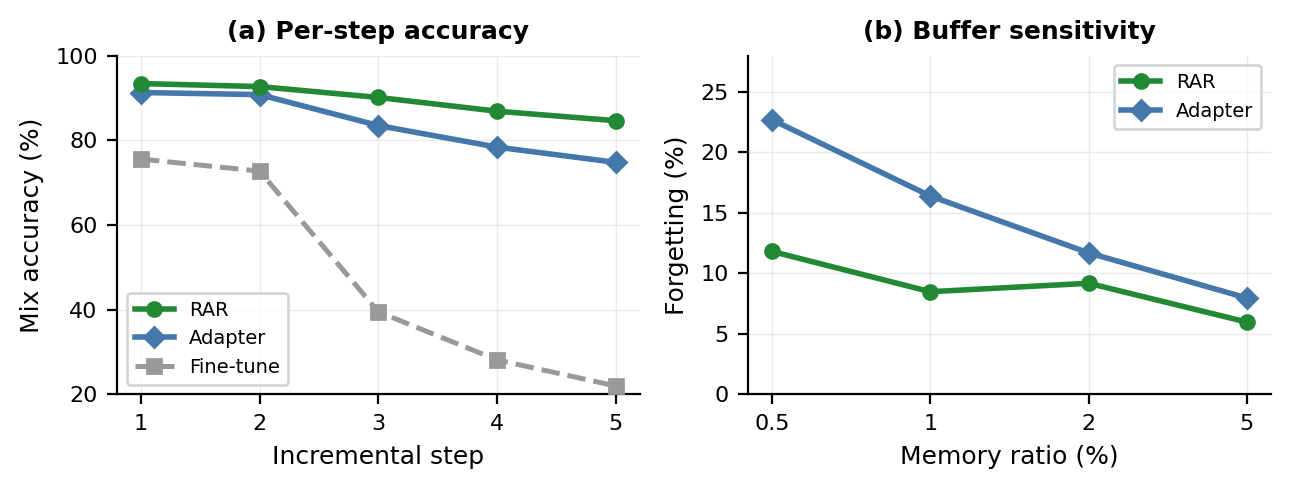
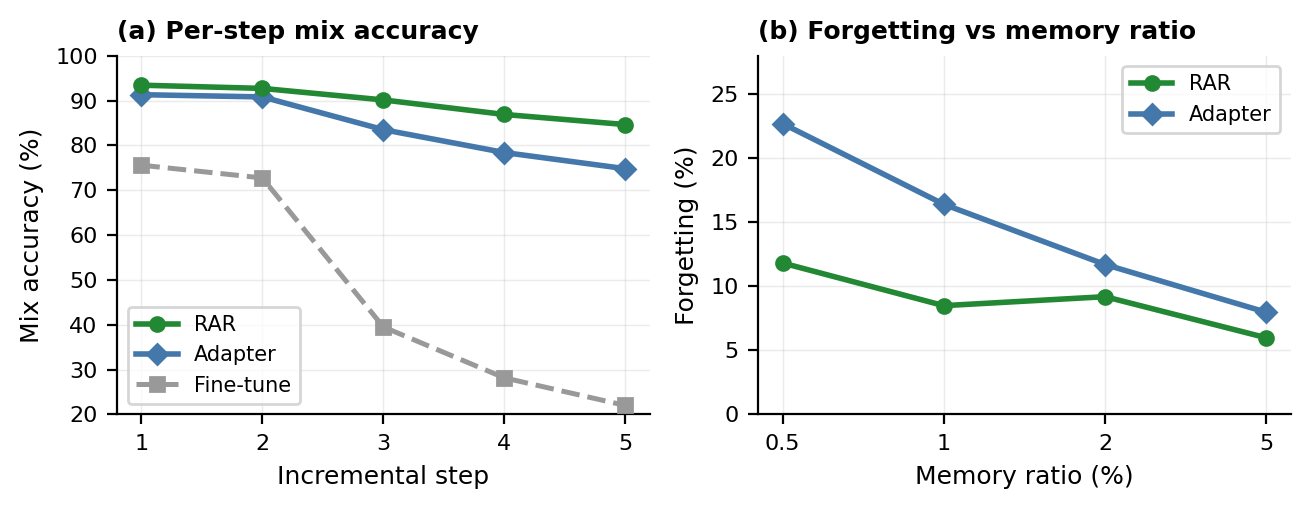
Update paper locally

diff --git a/paper/plot_robustness.py b/paper/plot_robustness.py
@@ -1,0 +1,53 @@
+"""Figure: Robustness composite (a) per-step mix accuracy (b) buffer sensitivity on CSTNET-TLS1.3."""
+import matplotlib
+matplotlib.use('Agg')
+import matplotlib.pyplot as plt
+import numpy as np
+matplotlib.rcParams.update({'font.size': 8, 'font.family': 'sans-serif'})
+
+fig, (ax1, ax2) = plt.subplots(1, 2, figsize=(6.6, 2.6))
+
+# --- Panel (a): Per-step mix accuracy ---
+steps = [1, 2, 3, 4, 5]
+rar     = [93.42, 92.70, 90.13, 86.89, 84.64]
+adapter = [91.30, 90.80, 83.50, 78.40, 74.80]
+ft      = [75.58, 72.73, 39.51, 28.16, 22.00]
+
+ax1.plot(steps, rar,     'o-',  color='#228833', lw=2, ms=5, label='RAR', zorder=5)
+ax1.plot(steps, adapter, 'D-',  color='#4477AA', lw=2, ms=5, label='Adapter', zorder=4)
+ax1.plot(steps, ft,      's--', color='#999999', lw=1.8, ms=5, label='Fine-tune', zorder=3)
+
+ax1.set_xlabel('Incremental step', fontsize=9)
+ax1.set_ylabel('Mix accuracy (%)', fontsize=9)
+ax1.set_xticks(steps)
+ax1.set_ylim(20, 100)
+ax1.legend(fontsize=7.5, frameon=True, edgecolor='#cccccc')
+ax1.grid(True, alpha=0.25, lw=0.5)
+ax1.spines['top'].set_visible(False)
+ax1.spines['right'].set_visible(False)
+ax1.set_title('(a) Per-step mix accuracy', fontsize=9, fontweight='bold', loc='left')
+
+# --- Panel (b): Buffer sensitivity ---
+labels = ['0.5', '1', '2', '5']
+rar_b    = [11.82, 8.49, 9.19, 5.98]
+adp_b    = [22.70, 16.40, 11.70, 7.97]
+x_b      = range(len(labels))
+
+ax2.plot(x_b, rar_b, 'o-', color='#228833', lw=2, ms=5, label='RAR', zorder=5)
+ax2.plot(x_b, adp_b, 'D-', color='#4477AA', lw=2, ms=5, label='Adapter', zorder=4)
+
+ax2.set_xlabel('Memory ratio (%)', fontsize=9)
+ax2.set_ylabel('Forgetting (%)', fontsize=9)
+ax2.set_xticks(x_b)
+ax2.set_xticklabels(labels)
+ax2.set_ylim(0, 28)
+ax2.legend(fontsize=7.5, frameon=True, edgecolor='#cccccc')
+ax2.grid(True, alpha=0.25, lw=0.5)
+ax2.spines['top'].set_visible(False)
+ax2.spines['right'].set_visible(False)
+ax2.set_title('(b) Forgetting vs memory ratio', fontsize=9, fontweight='bold', loc='left')
+
+plt.tight_layout()
+plt.savefig('figures/robustness.pdf', dpi=200, bbox_inches='tight')
+plt.savefig('figures/robustness.png', dpi=200, bbox_inches='tight')
+print('Saved figures/robustness.pdf')

diff --git a/paper/method.tex b/paper/method.tex
@@ -80,7 +80,7 @@ The empirical foundation for $s_{\mathrm{old}}$ is separability: across the six 
 
 \begin{figure}[t]
 \centering
-\includegraphics[width=\linewidth]{figures/fig_e0_separability.png}
+\includegraphics[width=\linewidth]{figures/fig_e0_separability.pdf}
 \caption{Per-dataset reconstruction-error distributions (old vs.\ new).}
 \label{fig:e0-separability}
 \Description{Six-panel violin plot showing per-dataset distributions of reconstruction error for old and new samples. Blue violins represent old-class errors, orange violins represent new-class errors. All six datasets show statistically significant separation (p less than 0.001). Datasets: NUDT-Mobile, CIC-DoHBrw, CIC-IoT2023, CSTNET-TLS1.3, ISCX-Tor, EBSNN-WebApp.}